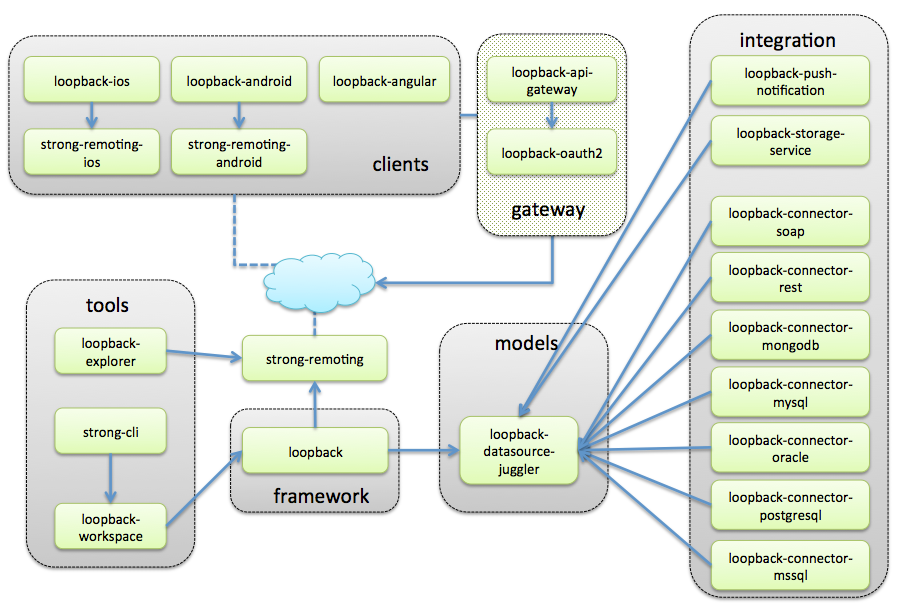
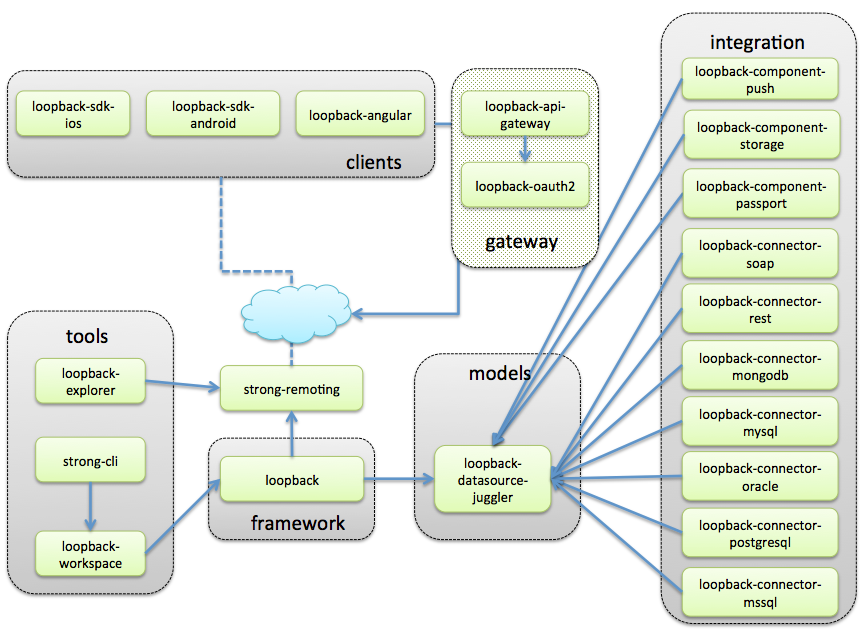
Update README

diff --git a/README.md b/README.md
@@ -35,15 +35,16 @@ as illustrated below:
   * [loopback-connector-rest](https://github.com/strongloop/loopback-connector-rest)
   * [loopback-connector-soap](https://github.com/strongloop/loopback-connector-soap) 
 
-* Mobile services
-  * [loopback-push-notification](https://github.com/strongloop/loopback-push-notification)
-  * [loopback-storage-service](https://github.com/strongloop/loopback-storage-service)
+* Mobile Components
+  * [loopback-component-push](https://github.com/strongloop/loopback-component-push)
+  * [loopback-component-storage](https://github.com/strongloop/loopback-component-storage)
 
+* Security Components
+  * [loopback-component-passport](https://github.com/strongloop/loopback-component-passport)
+  
 * Clients
-  * [loopback-ios](https://github.com/strongloop/loopback-ios)
-  * [strong-remoting-ios](https://github.com/strongloop/strong-remoting-ios)
-  * [loopback-android](https://github.com/strongloop/loopback-android)
-  * [strong-remoting-android](https://github.com/strongloop/strong-remoting-android)
+  * [loopback-sdk-ios](https://github.com/strongloop/loopback-sdk-ios)
+  * [loopback-sdk-android](https://github.com/strongloop/loopback-sdk-android)
   * [loopback-angular](https://github.com/strongloop/loopback-angular)
 
 * Tools
